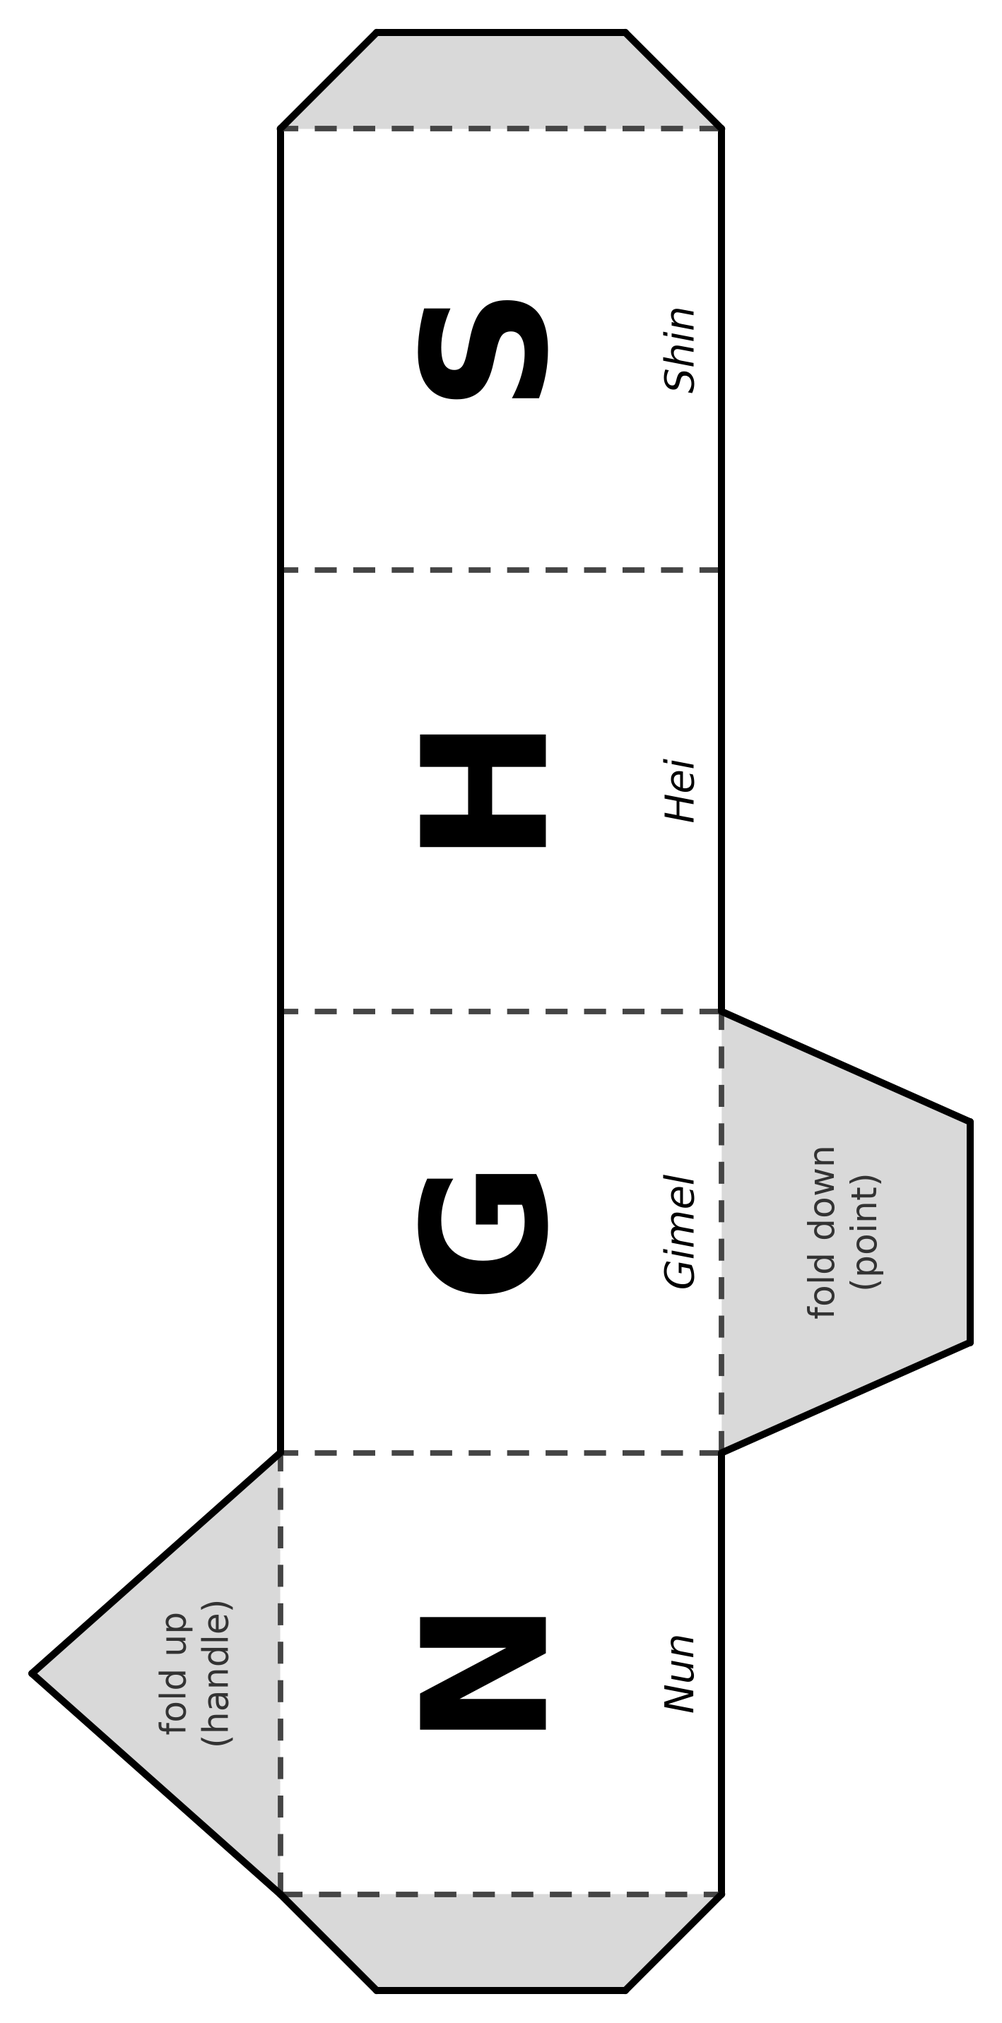
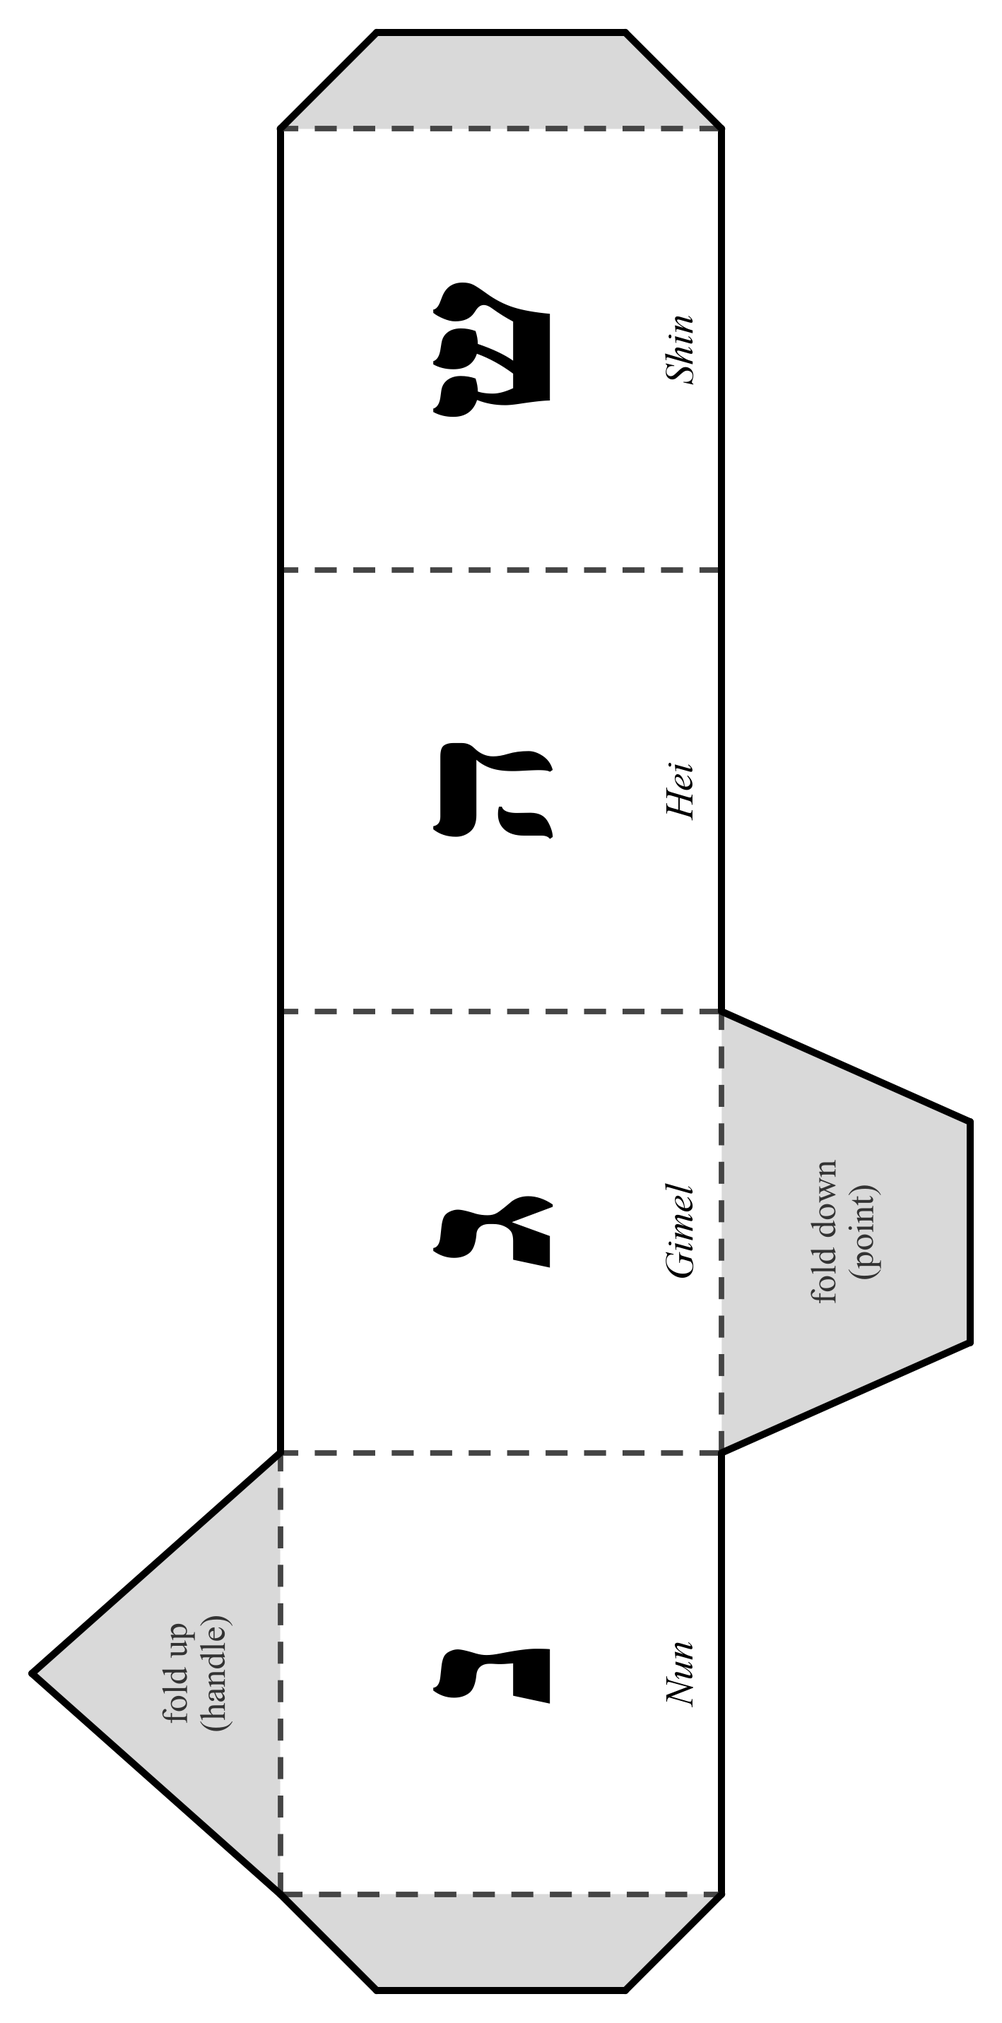
hanukkah-8-nights: aplica decisoes religiosas (letras hebraicas no dreidel, Adonai, v'higiyanu, instrucao do Match, genizá no cartao)

diff --git a/books/hanukkah-8-nights/legacy/scripts/gerar_template_dreidel_latino.py b/books/hanukkah-8-nights/legacy/scripts/gerar_template_dreidel_latino.py
@@ -1,6 +1,6 @@
 """
 gerar_template_dreidel_latino.py
-VARIANTE SEM HEBRAICO (decisao 49): iniciais latinas N, G, H, S no lugar das letras hebraicas, sem titulo na imagem,
+VARIANTE COM LETRAS HEBRAICAS ISOLADAS (decisao de 06/10/2026, excecao a decisao 49): letra hebraica grande + nome transliterado embaixo em cada face, sem titulo na imagem,
 fundo branco opaco, 400 dpi, girado 90 graus (retrato) para ocupar a pagina inteira.
 (baseado em gerar_template_dreidel.py)
 
@@ -18,13 +18,14 @@ import json
 import matplotlib
 matplotlib.use("Agg")
 import matplotlib.pyplot as plt
+plt.rcParams["font.family"] = ["Times New Roman", "Arial"]
 from matplotlib.patches import Polygon, FancyBboxPatch
 
 OUT_PNG = "inputs/puzzle-assets/noite5_template_dreidel_branco.png"
 OUT_JSON = "inputs/puzzle-assets/noite5_template_dreidel_branco_gabarito.json"
 
 # Letras hebraicas das 4 faces, na ordem tradicional (fora de Israel).
-LETRAS = ["N", "G", "H", "S"]  # iniciais latinas: Nun, Gimel, Hei, Shin
+LETRAS = ["נ", "ג", "ה", "ש"]  # Nun, Gimel, Hei, Shin (letras isoladas; nao sao nome divino)
 NOMES = ["Nun", "Gimel", "Hei", "Shin"]
 SIGNIFICADOS = ["Nes (a miracle)", "Gadol (great)", "Haya (happened)", "Sham (there)"]
 
@@ -35,7 +36,7 @@ TAB = 0.35  # profundidade das abas de cola
 def texto_face(ax, x0, y0, letra_idx):
     ax.text(
         x0 + S / 2, y0 + S / 2, LETRAS[letra_idx],
-        ha="center", va="center", fontsize=44, fontweight="bold",
+        ha="center", va="center", fontsize=54, fontweight="bold",
     )
     ax.text(
         x0 + S / 2, y0 + 0.14, NOMES[letra_idx],
@@ -109,7 +110,7 @@ def main():
 
     gabarito = {
         "faces": [
-            {"posicao": i, "inicial_latina": LETRAS[i], "nome": NOMES[i],
+            {"posicao": i, "letra_hebraica": LETRAS[i], "nome": NOMES[i],
              "significado_fora_de_israel": SIGNIFICADOS[i]}
             for i in range(4)
         ],

diff --git a/books/hanukkah-8-nights/legacy/docs/revisao-religiosa.md b/books/hanukkah-8-nights/legacy/docs/revisao-religiosa.md
@@ -51,7 +51,7 @@ O material foi passado por quatro modelos externos. Nenhum apontou conteúdo ofe
 **Status: [REVISAR]**
 **Texto proposto no piloto:**
 > Baruch atah Adonai, Eloheinu melech ha'olam, asher kid'shanu b'mitzvotav v'tzivanu l'hadlik ner shel Chanukah.
-> Blessed are You, our God, Ruler of the universe, who made us holy with commandments and commanded us to light the Hanukkah candles.
+> Blessed are You, Adonai our God, Ruler of the universe, who made us holy with commandments and commanded us to light the Hanukkah candles.
 
 **Fonte:** formulação padrão da bênção do acendimento de Hanucá, recitada nas 8 noites, presente em praticamente todo sidur e hagadá de Hanucá.
 **O que precisa de validação humana:** grafia exata da transliteração (existem variantes ortográficas aceitas) e se o livro deve trazer também o script hebraico além da transliteração e do inglês.
@@ -59,8 +59,8 @@ O material foi passado por quatro modelos externos. Nenhum apontou conteúdo ofe
 ### 3. Shehecheyanu, exclusiva da 1ª noite
 **Status: [REVISAR]**
 **Texto proposto no piloto:**
-> Baruch atah Adonai, Eloheinu melech ha'olam, shehecheyanu v'kiy'manu v'higianu laz'man hazeh.
-> Blessed are You, our God, Ruler of the universe, who has kept us alive, sustained us, and brought us to this season.
+> Baruch atah Adonai, Eloheinu melech ha'olam, shehecheyanu v'kiy'manu v'higiyanu laz'man hazeh.
+> Blessed are You, Adonai our God, Ruler of the universe, who has kept us alive, sustained us, and brought us to this season.
 
 **Fonte:** a Shehecheyanu é dita na primeira vez que se cumpre uma mitzvá sazonal num ciclo, prática amplamente documentada e consensual entre as correntes do judaísmo para a primeira noite de Hanucá.
 **O que precisa de validação humana:** confirmar que a nota de produção do texto (dita só na noite 1, não repetida) está correta para todas as correntes que o livro pretende servir, e que não há exceção relevante a mencionar (ex. quem acende depois do pôr do sol tarde na primeira noite ainda diz a bênção).
@@ -219,14 +219,16 @@ Vale o mesmo aviso da rodada de 26/09: isto **não substitui o revisor humano**.
 | 1 | Hebraico das 3 bênçãos, transliteração, traduções, יְיָ, "la'avoteinu" (versão tradicional): corretos | Grok, ChatGPT, Qwen | Confirmado. Conferido por código que o hebraico do PDF do bônus é idêntico ao texto aprovado |
 | 2 | Nikud e renderização da fonte no cartão do bônus: só um humano fecha | Grok, ChatGPT, Qwen | PDF conferido a 450 DPI (marcas no lugar, sem deslocamento visível). **Pendente: revisor humano** |
 | 3 | Cabeçalho "Only on Night 1: The Shehecheyanu" é absoluto demais (a decisão 45 já suavizou o texto) | ChatGPT | **APLICADO**: virou "The Shehecheyanu: The First Night You Light" (igual ao cartão do bônus) |
-| 4 | Dreidel só com iniciais latinas N/G/H/S enfraquece a atividade que ensina as letras; usar a letra hebraica grande + nome transliterado (letras isoladas não são nome divino) | ChatGPT | **DECISÃO SUA** (contraria a decisão 49: sem hebraico em script no miolo). Grok considerou a decisão 49 sensata |
-| 5 | Instrução do "Match the Letter": "to what it stands for" sugere tradução; "nothing/everything/half" são ações do jogo | ChatGPT | **PROPOSTO**: "Draw a line from each letter to what it tells you to do in the game." (muda o texto aprovado) |
-| 6 | Tradução: acrescentar "Adonai" antes de "our God" e "His" antes de "commandments" | ChatGPT | **PROPOSTO** (afeta N1, cartão do bônus). Grok e Qwen aceitaram o texto atual |
-| 7 | Transliteração: "v'higiyanu" em vez de "v'higianu"; manter uma só grafia em todo o livro | ChatGPT, Qwen | **PROPOSTO** (baixo risco). Grafia "Hanukkah" conferida: não há variante no miolo |
-| 8 | Cartão com nome divino: tratar como cartão para guardar (não recortar), e orientar a procurar uma sinagoga para descartar exemplar gasto (genizá) | ChatGPT | Cartão já é para guardar, sem recorte. **PROPOSTO** acrescentar uma frase de genizá ao aviso de respeito |
+| 4 | Dreidel só com iniciais latinas N/G/H/S enfraquece a atividade que ensina as letras; usar a letra hebraica grande + nome transliterado (letras isoladas não são nome divino) | ChatGPT | **APLICADO em 06/10/2026** (Danilo aprovou a recomendação): letra hebraica grande + nome transliterado no molde do dreidel e no exercício "Match the Letter", e as letras também na nota "What do the letters spell?" (Pei incluída). Exceção à decisão 49: só essas 4 letras isoladas (+ Pei); o resto do miolo segue só com transliteração |
+| 5 | Instrução do "Match the Letter": "to what it stands for" sugere tradução; "nothing/everything/half" são ações do jogo | ChatGPT | **APLICADO em 06/10/2026**: "...to what it tells you to do in the game." |
+| 6 | Tradução: acrescentar "Adonai" antes de "our God" e "His" antes de "commandments" | ChatGPT | **APLICADO em 06/10/2026, só "Adonai"** ("Blessed are You, Adonai our God, ..."). "His" NÃO entrou: a regra 7 do livro é neutralidade entre as correntes e "His" põe gênero em Deus; "with commandments" é a tradução comum e segura. Livro (N1) e cartão do bônus |
+| 7 | Transliteração: "v'higiyanu" em vez de "v'higianu"; manter uma só grafia em todo o livro | ChatGPT, Qwen | **APLICADO em 06/10/2026**: "v'higiyanu" na N1 e no cartão. Grafia "Hanukkah" conferida em todo o miolo |
+| 8 | Cartão com nome divino: tratar como cartão para guardar (não recortar), e orientar a procurar uma sinagoga para descartar exemplar gasto (genizá) | ChatGPT | **APLICADO em 06/10/2026** só no cartão do Family Pack: "If it wears out, please ask a rabbi or your synagogue how to retire it respectfully." (o miolo só tem transliteração e não precisa) |
 | 9 | Quadro menorá x hanukkiah não pode dizer que "menorah" só serve para 7 braços | ChatGPT | Verificado: o livro diz "hanukkiah, also called a Hanukkah menorah". Sem problema |
 | 10 | "Gemilut chasadim" e tzedaká não são categorias totalmente separadas | ChatGPT | Verificado: a N7 só diz que ajudar assim é gemilut chasadim. Sem problema |
 | 11 | Agradecimento a revisores judeus no colofão | Grok | Opcional; só faz sentido depois do revisor humano |
 | 12 | Controle editorial desatualizado ("bônus não foi escrito") | ChatGPT | Corrigido: o PDF do bônus existe desde 06/10 |
 
 Nota: "Chanukah puzzle book for kids" aparece só como keyword do backend do listing (variante de busca intencional).
+
+**Resumo (06/10/2026):** os itens 3 a 8 acima estão fechados. Continua pendente o **revisor humano** (nikud e fonte do cartão, mini-guia, bênçãos, Shehecheyanu, quadro menorá x hanukkiah, Pei, as 4 letras do dreidel).

diff --git a/books/hanukkah-8-nights/legacy/docs/hebraico-para-revisao.md b/books/hanukkah-8-nights/legacy/docs/hebraico-para-revisao.md
@@ -14,7 +14,7 @@ Toda página com letra ou palavra hebraica (transliterada ou em script) entra aq
 > Baruch atah Adonai, Eloheinu melech ha'olam, asher kid'shanu b'mitzvotav v'tzivanu l'hadlik ner shel Hanukkah.
 
 **Tradução usada:**
-> Blessed are You, our God, Ruler of the universe, who made us holy with commandments and commanded us to light the Hanukkah candles.
+> Blessed are You, Adonai our God, Ruler of the universe, who made us holy with commandments and commanded us to light the Hanukkah candles.
 
 ---
 
@@ -23,16 +23,16 @@ Toda página com letra ou palavra hebraica (transliterada ou em script) entra aq
 > Baruch atah Adonai, Eloheinu melech ha'olam, she'asah nisim la'avoteinu bayamim hahem baz'man hazeh.
 
 **Tradução usada:**
-> Blessed are You, our God, Ruler of the universe, who worked miracles for our ancestors in those days, at this season.
+> Blessed are You, Adonai our God, Ruler of the universe, who worked miracles for our ancestors in those days, at this season.
 
 ---
 
 **Página:** Before the Candles, bloco "Only on Night 1: the Shehecheyanu" (3ª bênção)
 **Texto no piloto:**
-> Baruch atah Adonai, Eloheinu melech ha'olam, shehecheyanu v'kiy'manu v'higianu laz'man hazeh.
+> Baruch atah Adonai, Eloheinu melech ha'olam, shehecheyanu v'kiy'manu v'higiyanu laz'man hazeh.
 
 **Tradução usada:**
-> Blessed are You, our God, Ruler of the universe, who has kept us alive, sustained us, and brought us to this season.
+> Blessed are You, Adonai our God, Ruler of the universe, who has kept us alive, sustained us, and brought us to this season.
 
 **Pendências para o revisor (as três bênçãos):** confirmar a grafia das transliterações (variantes aceitas: "l'hadlik"/"lehadlik", "kid'shanu"/"kidshanu", "nisim"/"nissim", "bayamim"/"ba-yamim"). As revisões externas confirmaram os textos como padrão. Decidido pelo Danilo em 26/09/2026: script hebraico entra só no cartão de bênçãos do Bonus (as três bênçãos, hebraico + transliteração + inglês); no miolo, só transliteração + inglês.
 
@@ -124,3 +124,11 @@ O miolo diagramado NÃO tem letra hebraica em script em nenhuma página (conferi
 
 **Página:** 1 do PDF `build/hanukkah-8-nights-family-pack.pdf`, cartão "Hanukkah Blessings" (fonte: `bonus/family-pack.typ`).
 **Hebraico em script, com nikud:** as 3 bênçãos do cartão (acendimento, milagres, Shehecheyanu), idênticas ao texto de `manuscrito/bonus-cartao-bencaos.md` (conferido por código). Transliteração e inglês iguais aos da Noite 1. Nome divino abreviado como יְיָ, com a linha de aviso de respeito. Pendente de revisor humano: grafia, nikud e o aviso.
+
+---
+
+## NIGHT 5: letras do dreidel (06/10/2026)
+
+**Páginas:** exercício "Match the Letter to Its Meaning" e nota "What do the letters spell?" (N5), e o molde "Design a Dreidel" (N5, `noite5_template_dreidel_branco.png`).
+**Hebraico em script (letras isoladas, em Times New Roman embutido):** נ (Nun), ג (Gimel), ה (Hei), ש (Shin) e פ (Pei, só na nota sobre Israel). Cada letra aparece com o nome transliterado.
+**Observação:** exceção à decisão 49, aprovada pelo Danilo em 06/10/2026 após a revisão cruzada 2. Pendente de revisor humano.

diff --git a/books/hanukkah-8-nights/questions.md b/books/hanukkah-8-nights/questions.md
@@ -88,4 +88,4 @@ O enunciado impresso diz "share equally with 4 cousins (you get a share too)", o
 - [ ] [ASSUMIDA] (cover) Capa final pendente de arte (frente/verso em `inputs/cover-front.png`, `cover-back.png`); entregue o guia `build/hanukkah-8-nights-cover-guide.pdf` e as medidas em `listing/cover-specs.md`. Lombada sem texto (64 páginas).
 - [ ] [ASSUMIDA] (bônus, 2026-10-06) Brevo montado (lista, formulário e template; ver `listing/bonus-brevo.md`) e o QR real já está no livro (`inputs/bonus-qr.png`, `has-bonus-qr = true`). Falta o PDF do Family Pack: subir no OneDrive, trocar o link provisório do template id 22 e testar o fluxo antes de subir o livro.
 - [ ] [ASSUMIDA] (bônus, 2026-10-06) PDF do Family Pack produzido (3 páginas): cartão de bênçãos (texto aprovado de `legacy/manuscript/bonus-cartao-bencaos.md`, hebraico idêntico por conferência de código, fonte Times New Roman embutida), regras do dreidel (texto da Noite 5) com placar de 4 jogadores x 8 noites, e 8 etiquetas "Night 1 a 8" com a hanukkiah desenhada com o número de velas da noite. Textos novos mínimos: título do placar, "To / From", "Cut along the dashed lines". O hebraico segue dependendo do revisor humano (cartão com nikud, nome divino abreviado).
-- [ ] [ASSUMIDA] (religioso, 2026-10-06) Revisão cruzada 2 (Grok, ChatGPT, Qwen) registrada em `legacy/docs/revisao-religiosa.md`. Aplicado: cabeçalho do Shehecheyanu na N1 sem o "Only". DECISÕES SUAS: (a) letras hebraicas grandes no dreidel e no exercício (hoje N/G/H/S), (b) instrução do Match "tells you to do in the game", (c) "Adonai" e "His" nas traduções, (d) "v'higiyanu", (e) frase de genizá no cartão. Revisor humano continua pendente.
+- [x] [ASSUMIDA] (religioso, 2026-10-06) Revisão cruzada 2 (Grok, ChatGPT, Qwen) registrada em `legacy/docs/revisao-religiosa.md`. Aplicado: cabeçalho do Shehecheyanu na N1 sem o "Only". DECISÕES SUAS: (a) letras hebraicas grandes no dreidel e no exercício (hoje N/G/H/S), (b) instrução do Match "tells you to do in the game", (c) "Adonai" e "His" nas traduções, (d) "v'higiyanu", (e) frase de genizá no cartão. Revisor humano continua pendente. → APLICADOS em 2026-10-06 por decisão do Danilo (a, b, d, e e "Adonai" do c; sem "His"). Ver `legacy/docs/revisao-religiosa.md`. Continua pendente só o revisor humano.

diff --git a/books/hanukkah-8-nights/legacy/manuscript/noite-1-texto.md b/books/hanukkah-8-nights/legacy/manuscript/noite-1-texto.md
@@ -82,19 +82,19 @@ Before you light the candles, say these two blessings together. You'll say them 
 
 > Baruch atah Adonai, Eloheinu melech ha'olam, asher kid'shanu b'mitzvotav v'tzivanu l'hadlik ner shel Hanukkah.
 >
-> Blessed are You, our God, Ruler of the universe, who made us holy with commandments and commanded us to light the Hanukkah candles.
+> Blessed are You, Adonai our God, Ruler of the universe, who made us holy with commandments and commanded us to light the Hanukkah candles.
 
 > Baruch atah Adonai, Eloheinu melech ha'olam, she'asah nisim la'avoteinu bayamim hahem baz'man hazeh.
 >
-> Blessed are You, our God, Ruler of the universe, who worked miracles for our ancestors in those days, at this season.
+> Blessed are You, Adonai our God, Ruler of the universe, who worked miracles for our ancestors in those days, at this season.
 
 **ONLY ON NIGHT 1: THE SHEHECHEYANU**
 
 Tonight only, add a third blessing, the Shehecheyanu. It's said the first time you light Hanukkah candles each year, so light number one gets its own special thank-you.
 
-> Baruch atah Adonai, Eloheinu melech ha'olam, shehecheyanu v'kiy'manu v'higianu laz'man hazeh.
+> Baruch atah Adonai, Eloheinu melech ha'olam, shehecheyanu v'kiy'manu v'higiyanu laz'man hazeh.
 >
-> Blessed are You, our God, Ruler of the universe, who has kept us alive, sustained us, and brought us to this season.
+> Blessed are You, Adonai our God, Ruler of the universe, who has kept us alive, sustained us, and brought us to this season.
 
 *(Nota de produção, revisada em 26/09/2026: todas as noites têm duas bênçãos, a do acendimento ("l'hadlik ner shel Hanukkah") e a dos milagres ("she'asah nisim"); a Noite 1 soma uma terceira, a Shehecheyanu. A versão anterior do piloto omitia a bênção "she'asah nisim", erro corrigido nesta revisão. A Shehecheyanu é dita na primeira vez que a pessoa acende no ano, o que para quase todas as famílias é a Noite 1; o texto evita dizer "exclusiva da Noite 1" de forma absoluta. Grafia "Hanukkah" dentro da bênção unificada com o resto do livro. As três bênçãos seguem marcadas [REVISAR] em `revisao-religiosa.md` e `hebraico-para-revisao.md`.)*
 

diff --git a/books/hanukkah-8-nights/legacy/manuscript/bonus-cartao-bencaos.md b/books/hanukkah-8-nights/legacy/manuscript/bonus-cartao-bencaos.md
@@ -15,7 +15,7 @@ Say the first two blessings every night, before you light the candles. On the fi
 
 Baruch atah Adonai, Eloheinu melech ha'olam, asher kid'shanu b'mitzvotav v'tzivanu l'hadlik ner shel Hanukkah.
 
-Blessed are You, our God, Ruler of the universe, who made us holy with commandments and commanded us to light the Hanukkah candles.
+Blessed are You, Adonai our God, Ruler of the universe, who made us holy with commandments and commanded us to light the Hanukkah candles.
 
 ---
 
@@ -25,7 +25,7 @@ Blessed are You, our God, Ruler of the universe, who made us holy with commandme
 
 Baruch atah Adonai, Eloheinu melech ha'olam, she'asah nisim la'avoteinu bayamim hahem baz'man hazeh.
 
-Blessed are You, our God, Ruler of the universe, who worked miracles for our ancestors in those days, at this season.
+Blessed are You, Adonai our God, Ruler of the universe, who worked miracles for our ancestors in those days, at this season.
 
 ---
 
@@ -33,15 +33,15 @@ Blessed are You, our God, Ruler of the universe, who worked miracles for our anc
 
 בָּרוּךְ אַתָּה יְיָ אֱלֹהֵינוּ מֶלֶךְ הָעוֹלָם, שֶׁהֶחֱיָנוּ וְקִיְּמָנוּ וְהִגִּיעָנוּ לַזְּמַן הַזֶּה.
 
-Baruch atah Adonai, Eloheinu melech ha'olam, shehecheyanu v'kiy'manu v'higianu laz'man hazeh.
+Baruch atah Adonai, Eloheinu melech ha'olam, shehecheyanu v'kiy'manu v'higiyanu laz'man hazeh.
 
-Blessed are You, our God, Ruler of the universe, who has kept us alive, sustained us, and brought us to this season.
+Blessed are You, Adonai our God, Ruler of the universe, who has kept us alive, sustained us, and brought us to this season.
 
 ---
 
 *Light the candles from left to right, newest candle first. Happy Hanukkah!*
 
-*This card contains Hebrew blessings with God's name. Please keep it in a respectful place.*
+*This card contains Hebrew blessings with God's name. Please keep it in a respectful place. If it wears out, please ask a rabbi or your synagogue how to retire it respectfully.*
 
 ---
 

diff --git a/books/hanukkah-8-nights/READY.md b/books/hanukkah-8-nights/READY.md
@@ -21,7 +21,7 @@ Estado: **miolo pronto e sem 🔴**; faltam capa (arte), bônus (PDF + QR) e a r
 ## Antes de subir (gates)
 1. **Capa:** gerar a arte (frente e verso) a partir do guia; faixa "Ages 6-10" na frente. `inputs/cover-front.png`, `cover-back.png`, depois `./st cover hanukkah-8-nights`.
 2. **Bônus Family Pack:** o QR real do formulário Brevo já está no livro (página 58). O PDF do bônus está pronto (`build/hanukkah-8-nights-family-pack.pdf`, 3 páginas). Falta pegar o link de compartilhamento do OneDrive, trocar o link provisório do template id 22 no Brevo e testar o fluxo. Passo a passo em `listing/bonus-brevo.md`.
-3. **Revisor religioso humano:** mini-guia de acendimento, 3 bênçãos da Noite 1, Shehecheyanu, quadro menorá x hanukkiah, letra Pei, cartão com nikud (`legacy/docs/revisao-religiosa.md`, `legacy/docs/hebraico-para-revisao.md`).
+3. **Revisor humano (judeu, que leia hebraico):** a revisão por IAs (26/09 e 06/10) está fechada e aplicada; falta a leitura humana do mini-guia de acendimento, das 3 bênçãos (com "Adonai"), do Shehecheyanu, do quadro menorá x hanukkiah, das 4 letras do dreidel + Pei e do cartão do bônus com nikud (`legacy/docs/revisao-religiosa.md`, `legacy/docs/hebraico-para-revisao.md`).
 4. **Ligar os pontos da Noite 2** (hanukkiah 30 e menorá 80): ao ligar, não formam a figura prometida. Recomendação: autorizar redesenho em arquivos `_v2`. É o ponto mais fraco do miolo.
 
 ## Decisões suas (todas as ASSUMIDAS estão em `questions.md`)

diff --git a/books/hanukkah-8-nights/legacy/manuscript/noite-5-texto.md b/books/hanukkah-8-nights/legacy/manuscript/noite-5-texto.md
@@ -31,7 +31,7 @@ Gelt means "money" in Yiddish. Today it's usually chocolate coins wrapped in gol
 
 **MATCH THE LETTER TO ITS MEANING**
 
-A dreidel has four Hebrew letters, one on each side. Draw a line from each letter to what it stands for.
+A dreidel has four Hebrew letters, one on each side. Draw a line from each letter to what it tells you to do in the game.
 
 | Letter | | Meaning |
 |---|---|---|
